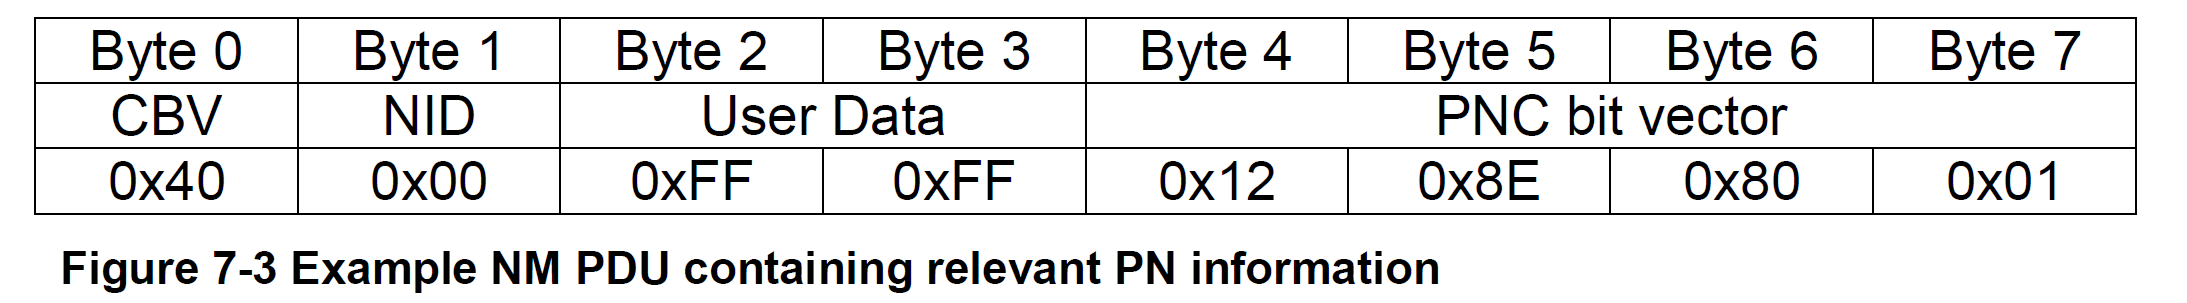
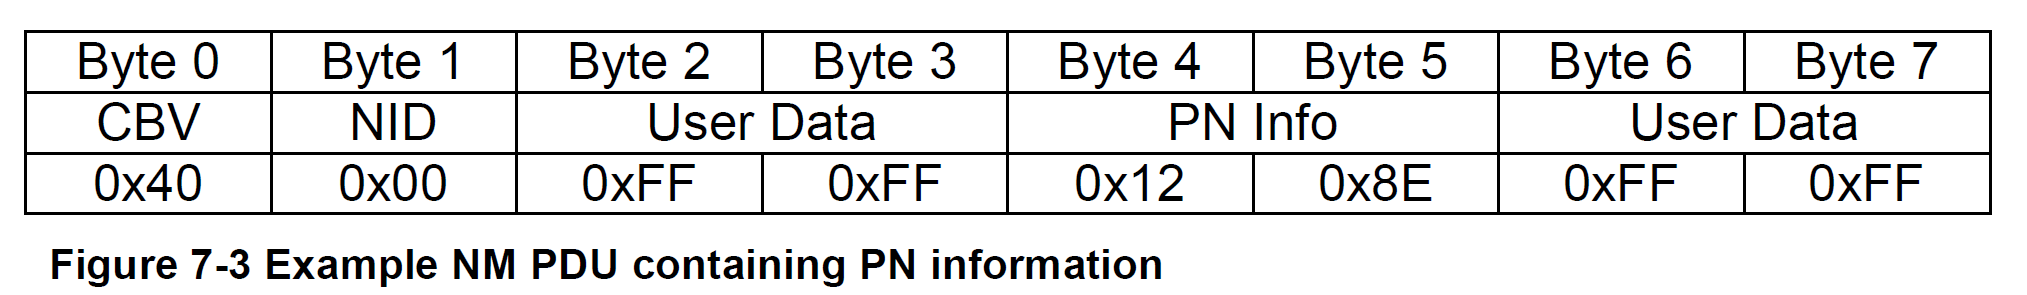
update the Lektion 2

Changed region(s): [[0.0, 0.0305, 0.9946, 0.7322], [0.0, 0.8237, 0.6838, 0.9763]]

diff --git a/deutsch/Berliner_Platz_1/Lektion_2/index.md b/deutsch/Berliner_Platz_1/Lektion_2/index.md
@@ -1,2 +1,47 @@
-<section id="title">Lektion-1 Wie geht's</section>
+<section id="title">Lektion-2 Wie geht's</section>
 
+# 1. Wie geht's (CD1.15)
+
+## 1.1. Dialog 1
+
+A: Guten Tag, Herr Kukan. Wie geht es Ihnen? <br/>
+B: Es geht, Und Ihnen? <br/>
+A: Danke gut. Möchten Sie noch etwas Kaffee? <br/>
+B: Nein, danke. Ich habe schon. <br/>
+
+**Note:**
+
+1. an/sehen：仔细看
+2. zu/ordnen：归类
+3. Es gut: 还行。
+
+## 1.2. Dialog 2
+
+A: Hallo, wie geht's? <br/>
+B: Nicht so gut. <br/>
+A: Oh, das tut mir leid. Möchtest du Tee? <br/>
+B: Nein, ich habe Saft. <br/>
+
+**Note:**
+
+1. leid: 痛苦。
+2. das tut mir leid: 我非常抱歉；我很遗憾。
+
+## 1.3. Dialog 3
+
+A: Guten Morgen, Magdalena, wie geht's? <br/>
+B: Danke gut, und dir? <br/>
+A: Super. Möchtest du auch Tee? <br/>
+B: Nein, danke, ich nehme Kaffee und ein Wasser. <br/>
+
+## 1.4. Dialog 4
+
+A: Was trinkst du? <br/>
+B: Kaffee. <br/>
+A: Nimmst du Milch und Zucker? <br/>
+B: Nein, danke. Ich trinke immer schwarz. Und du? <br/>
+A: Ich nehme viel Milch.
+
+**Note:**
+
+1. nimmst-> nehmen: 拿，要。

diff --git a/deutsch/index.md b/deutsch/index.md
@@ -8,6 +8,7 @@ permalink: /deutsch/
 ## Berliner Platz I
 
 * [Lektion 1 - Hallo](Berliner_Platz_1/Lektion_1)
+* [Lektion 2 - Wie geht's?](Berliner_Platz_1/Lektion_2/index.md)
 * [Lektion 5 - Was darf’s sein?](Berliner_Platz_1/Lektion_5)
 * [Lektion 6 - Familienleben](Berliner_Platz_1/Lektion_6)
 * [Lektion 7 - Willkommen in Berlin!](Berliner_Platz_1/Lektion_7/index.md)
